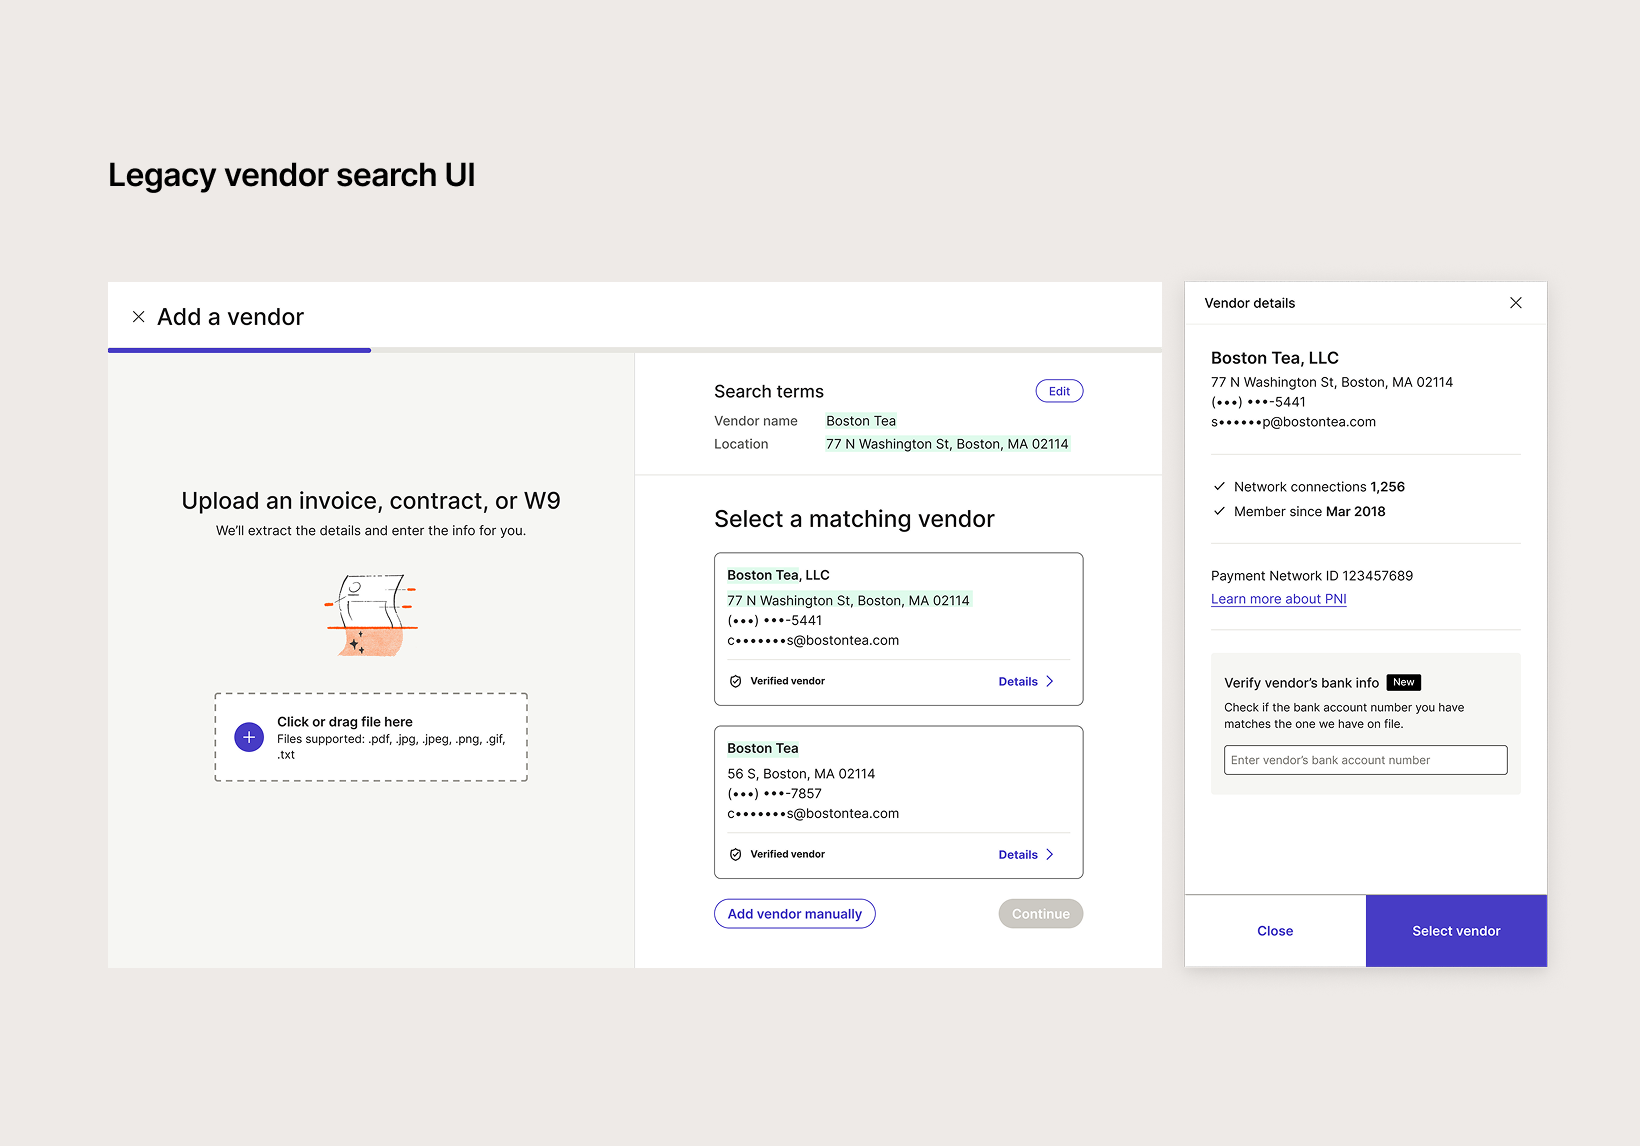
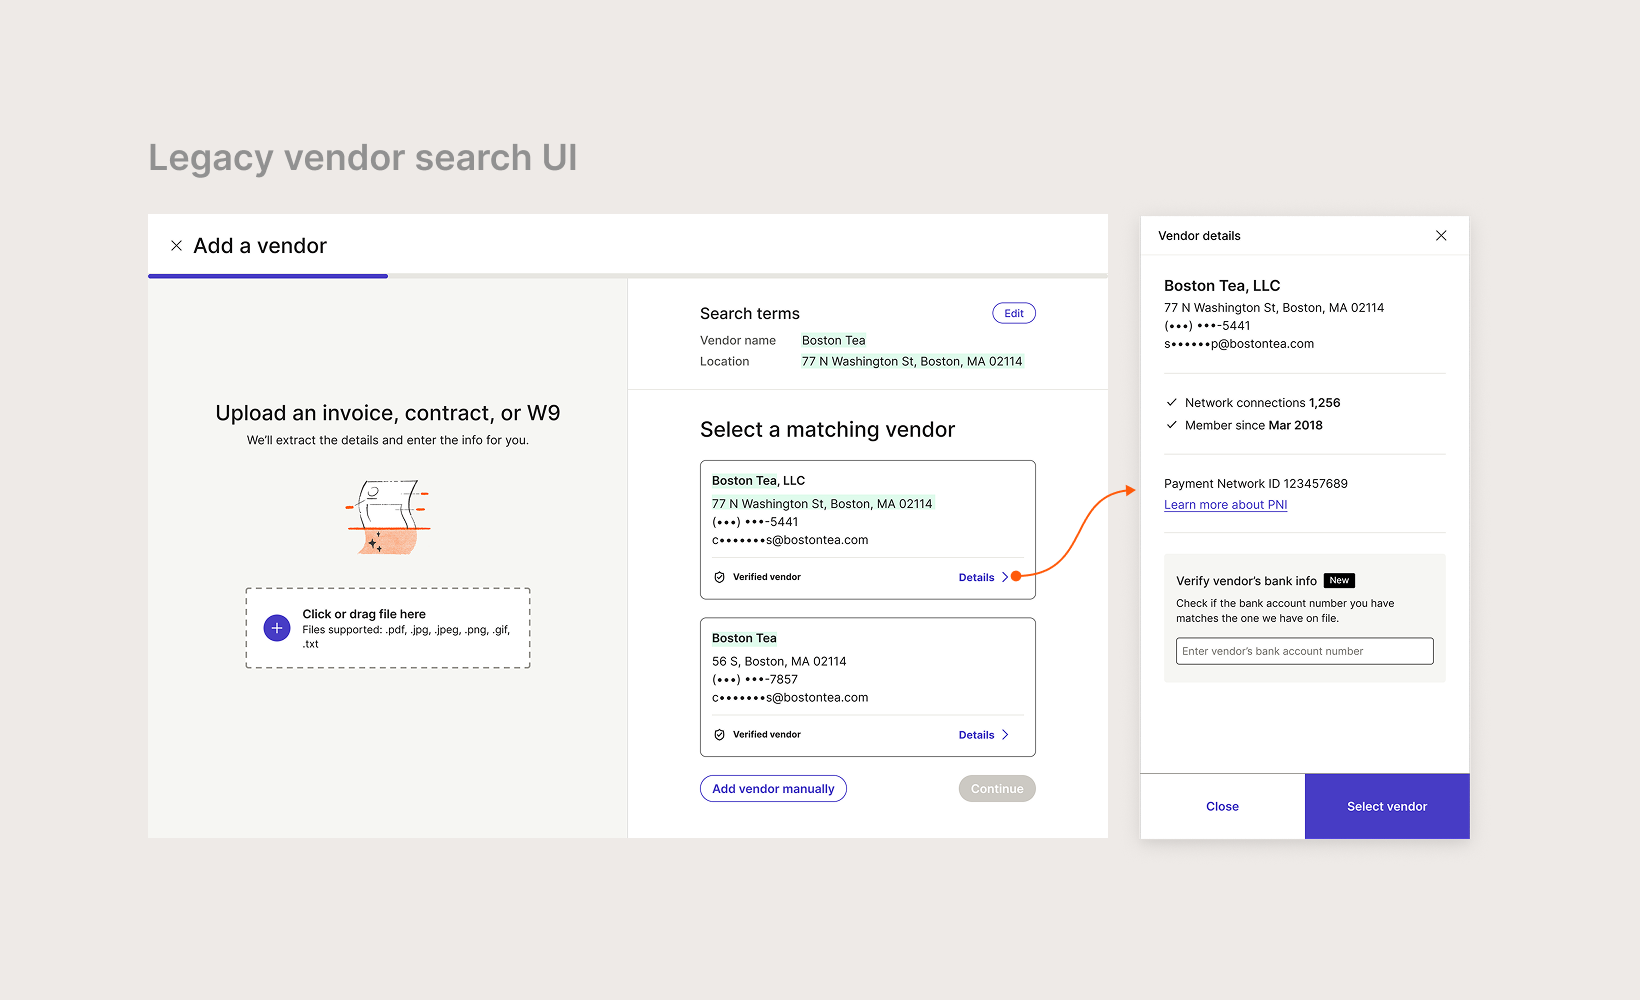
Trust in search: updated legacy vendor search image

Changed region(s): [[0.0622, 0.217, 0.964, 0.868], [0.1244, 0.403, 0.3421, 0.682], [0.0622, 0.124, 0.3421, 0.186]]

diff --git a/work/trust-in-search.html b/work/trust-in-search.html
@@ -107,9 +107,9 @@
       <p><span class="lead">What must the vendor card show, and which signals earn trust?</span></p>
 
       <figure class="cs-figure cs-figure--bleed">
-        <img src="../assets/img/Trust in search/legacy.png"
+        <img src="../assets/img/Trust in search/legacy.png?v=2"
           alt="Legacy vendor search UI: the Add a vendor flow lists matching vendors as near-identical cards, each marked Verified vendor, with a details drawer showing network connections, member-since date and Payment Network ID."
-          width="1640" height="1146">
+          width="1640" height="1000">
       </figure>
     </section>
 
